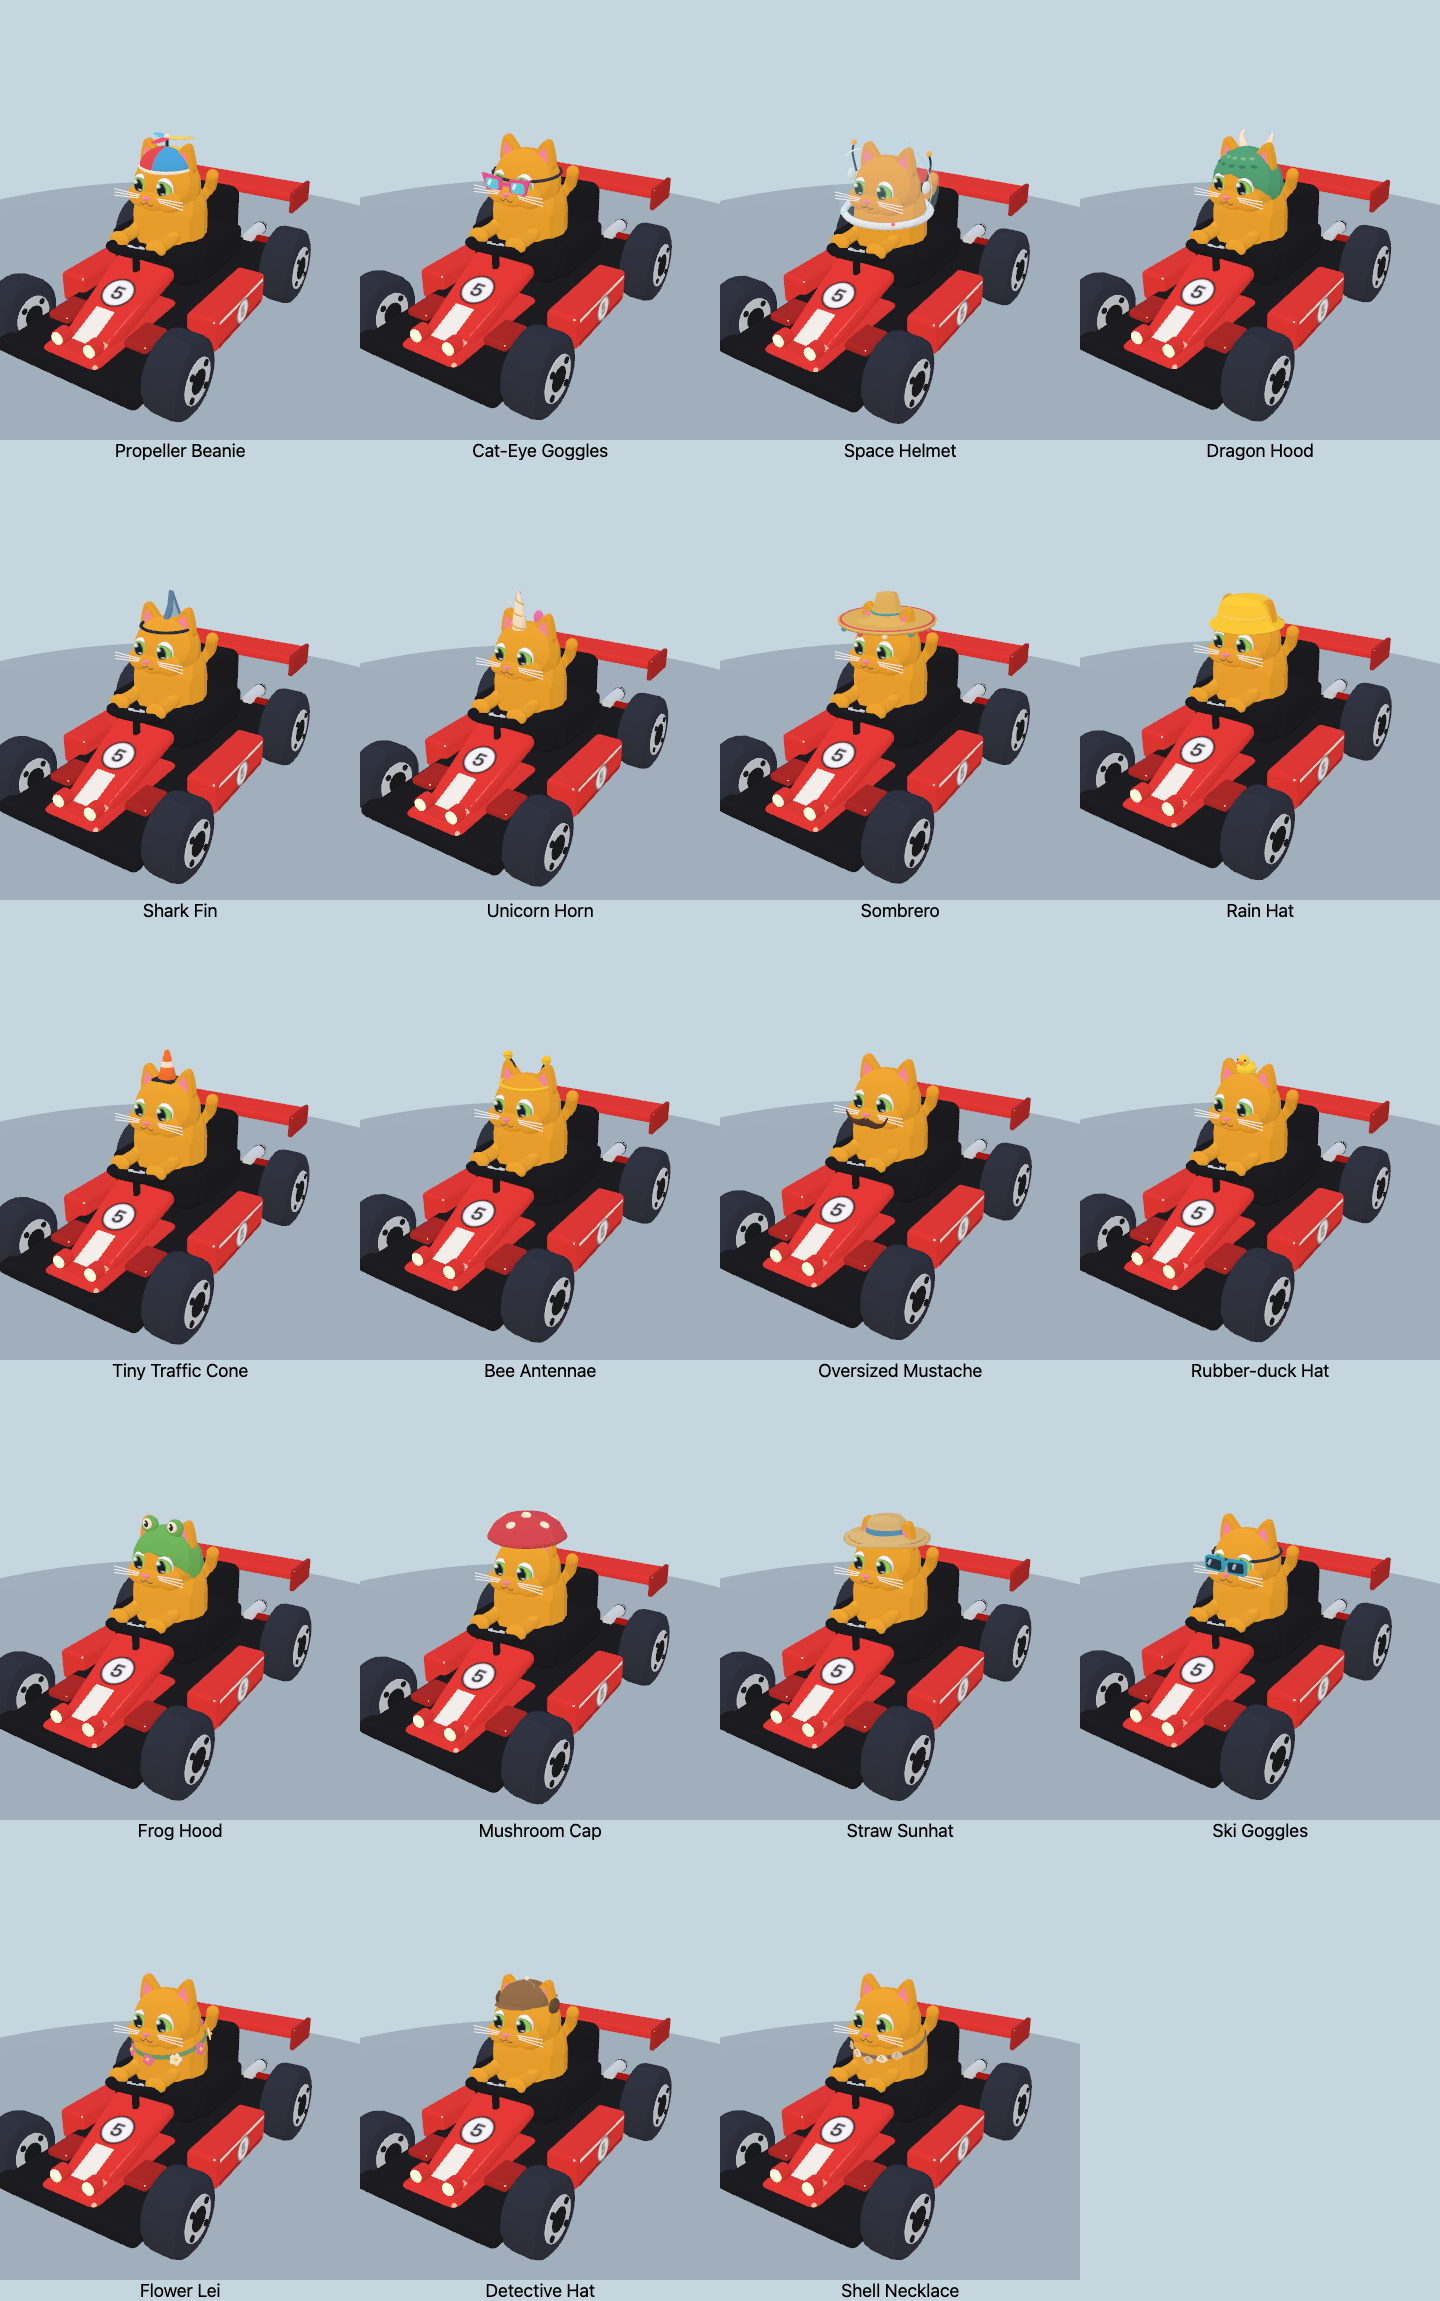
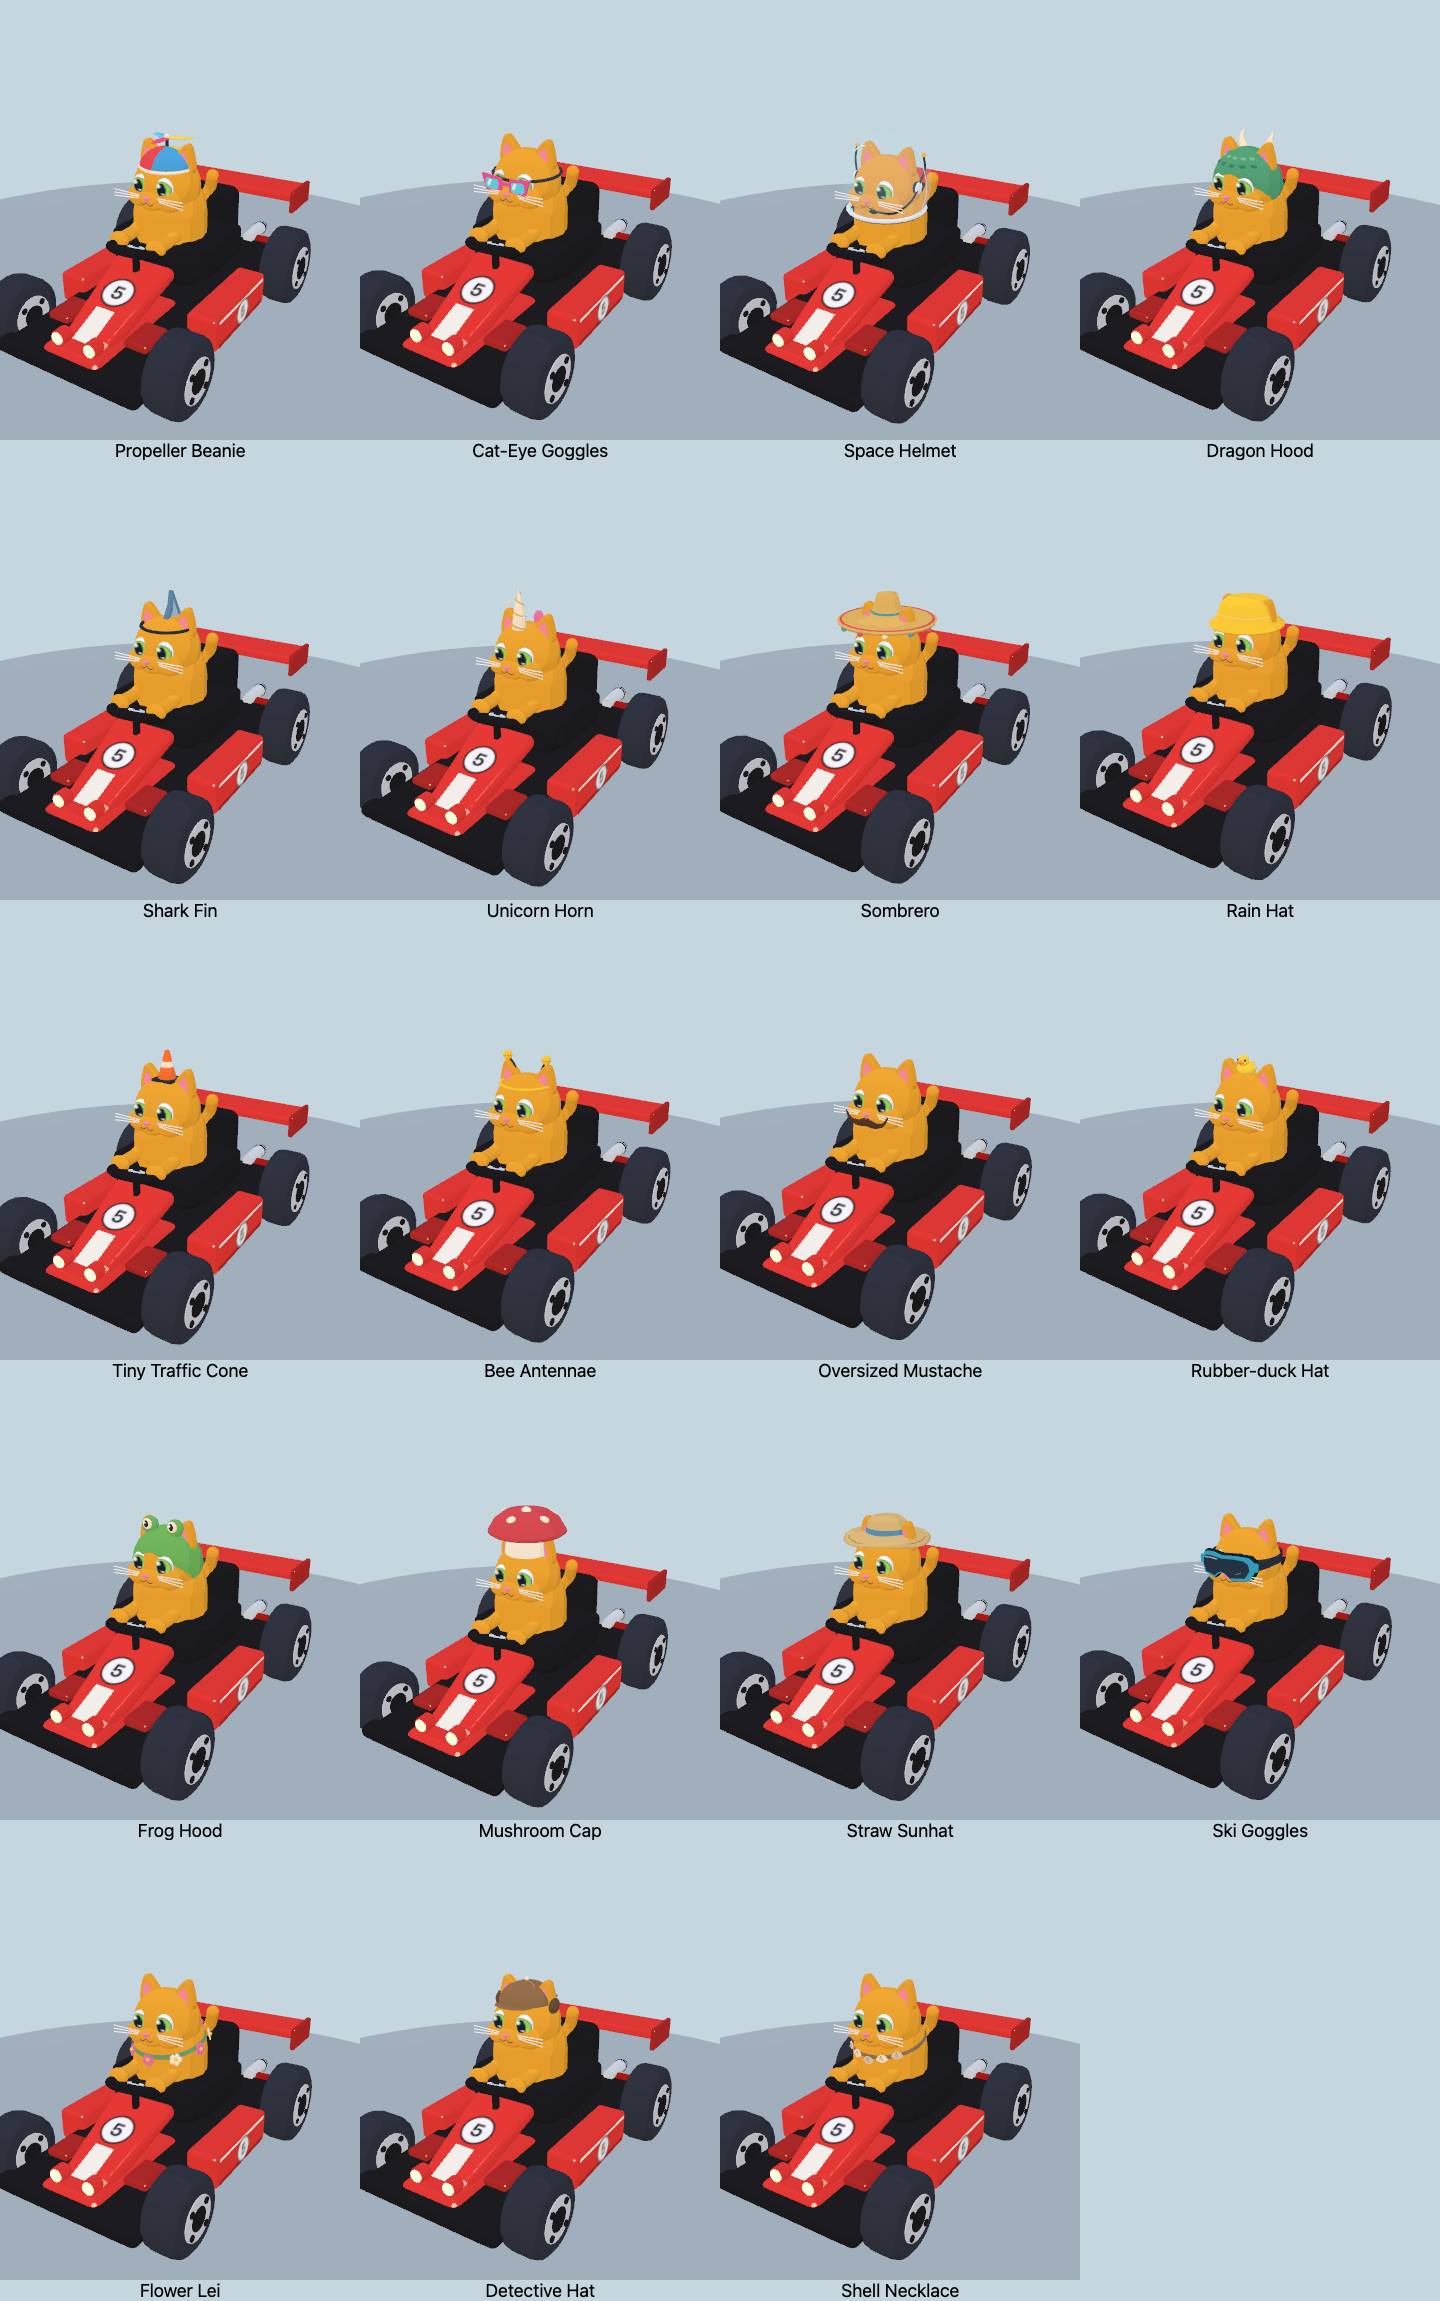
Refine accessory fit, mushroom stem, headset and ski goggles

diff --git a/src/cat-accessories.js b/src/cat-accessories.js
@@ -102,34 +102,60 @@ export function createExtraAccessory(id, color, helpers) {
       }
       ball(.075,ivory,0,.025,0);break;
     }
-    case 'catEye': case 'ski': {
+    case 'catEye': {
       band();
       for(const sx of [-1,1]){
-        id==='catEye'?shape([[-.23,-.13],[.17,-.16],[.29,.2],[-.23,.15]].map(([x,y])=>[x*sx,y]),.065,color,sx*.34,.12,.87):add(plaque(.51,.34,.07,.09),color,sx*.29,.12,.87);
-        const lens=add(plaque(id==='catEye'?.33:.4,.23,.018,.06),id==='catEye'?0x63d8ec:0x263749,sx*(id==='catEye'?.34:.29),.12,.915);
+        shape([[-.23,-.13],[.17,-.16],[.29,.2],[-.23,.15]].map(([x,y])=>[x*sx,y]),.065,color,sx*.34,.12,.87);
+        const lens=add(plaque(.33,.23,.018,.06),0x63d8ec,sx*.34,.12,.915);
         lens.rotation.z=sx*.06;
-        // Baked reflection streaks read as gloss without environment captures.
-        const glint=add(plaque(.07,.15,.009,.02),id==='catEye'?0xe6ffff:0xa1bdce,sx*.33-.065,.15,.933);glint.rotation.z=-.45;
+        const glint=add(plaque(.07,.15,.009,.02),0xe6ffff,sx*.33-.065,.15,.933);glint.rotation.z=-.45;
       }
       add(plaque(.22,.07,.05,.025),color,0,.15,.89);break;
     }
+    case 'ski': {
+      // One wraparound shield with a nose cutout, deep foam seal and broad
+      // elastic strap. Curvature and highlights are baked, not transparent.
+      cap([[.79,.06],[.835,.06],[.835,.24],[.79,.24],[.79,.06]],dark).scale.z=.94;
+      for(const sx of [-1,1]){
+        const strap=add(new THREE.BoxGeometry(.11,.17,.46),dark,sx*.72,.15,.53);strap.rotation.y=-sx*.23;
+        add(plaque(.11,.19,.045,.025),color,sx*.7,.15,.755);
+      }
+      const outline=[[-.69,.07],[-.66,.26],[-.56,.36],[-.32,.4],[0,.38],[.32,.4],[.56,.36],[.66,.26],[.69,.07],[.59,-.14],[.23,-.16],[.12,-.05],[0,.005],[-.12,-.05],[-.23,-.16],[-.59,-.14]];
+      const shield=(sx,sy,depth,c,z)=>{
+        const m=shape(outline.map(([x,y])=>[x*sx,(y-.12)*sy+.12]),depth,c,0,0,z);
+        const p=m.geometry.attributes.position;
+        for(let i=0;i<p.count;i++)p.setZ(i,p.getZ(i)-.5*p.getX(i)**2);
+        m.geometry.computeVertexNormals();return m;
+      };
+      shield(1.035,1.1,.12,0x17232d,.915);
+      shield(1,1,.095,color,.978);
+      shield(.87,.77,.025,0x263749,1.04);
+      line([[-.49,.26,.946],[-.29,.30,1.024],[-.08,.30,1.062]],.014,0xa1bdce,8);
+      line([[.35,.01,1.005],[.46,.055,.96]],.012,0x617c93,4);
+      break;
+    }
     case 'space': {
       covered=true;
-      ring(1.04,.09,color,0,-.56,.02);ring(1.05,.032,dark,0,-.62,.02);
+      const rim=ring(.918,.06,color,0,-.497,.04);rim.scale.z=1/1.08;
+      const seal=ring(.918,.023,dark,0,-.545,.04);seal.scale.z=1/1.08;
       for(const sx of [-1,1]){
-        ball(.15,color,sx*1.04,.17,0,[.5,1,1]);
-        line([[sx*.97,.22,-.1],[sx*1.08,.67,-.12],[sx*1.03,.93,-.12]],.027,dark);
-        ball(.065,0xffbf41,sx*1.03,.93,-.12);
+        ball(.15,dark,sx*.81,.13,.035,[.45,1,1]);
+        ball(.145,color,sx*.865,.13,.035,[.4,1,1]);
+        line([[sx*.87,.22,.015],[sx*.96,.56,-.07],[sx*.91,.88,-.09]],.025,dark);
+        ball(.055,0xffbf41,sx*.91,.88,-.09);
       }
-      // A single front-sided, unlit dome: no refraction, transmission, or second surface pass.
-      const g=new THREE.SphereGeometry(1.25,24,14,0,TAU,0,2.12);g.scale(1,1.02,.93);g.translate(0,.08,.02);g.userData.shared=true;
+      // Exactly one boom, attached to the right earcup, ends by the mouth.
+      line([[.88,.1,.08],[.88,-.1,.48],[.67,-.28,.78],[.24,-.30,.88]],.025,dark,12);
+      ball(.08,0x17232d,.19,-.30,.89,[1.35,.65,.65]);
+      // A closer-fitting ellipsoid still clears the anchored ears and muzzle.
+      // One front surface, with no transmission/refraction or extra light.
+      const g=new THREE.SphereGeometry(1,24,14,0,TAU,0,2.12);g.scale(1.08,1.2,1);g.translate(0,.13,.04);g.userData.shared=true;
       const domeKey='extra|space|dome';if(!cache.has(domeKey))cacheGeometry(domeKey,g);else g.dispose();
       dome=new THREE.Mesh(cache.get(domeKey),glass);dome.renderOrder=2;group.add(dome);
-      // Tiny opaque reflection marks keep the dome legible at racing distance.
-      line([[-.6,.86,.78],[-.42,1,.78],[-.2,1.07,.76]],.02,0xe5fbff);
-      line([[1.04,-.5,.1],[1.24,.12,.1],[1.04,.8,.1],[.62,1.19,.1]],.012,0xc4e3eb);
+      line([[-.53,.90,.60],[-.37,1.04,.57],[-.17,1.10,.59]],.016,0xe5fbff);
+      line([[.922,-.49,.04],[1.08,.13,.04],[.891,.81,.04],[.53,1.175,.04]],.01,0xc4e3eb);
       pivot('blink',0,0,0);
-      for(const sx of [-1,1])ball(.047,sx<0?0x7effa9:0xff6d6d,sx*.68,-.51,.84);
+      for(const sx of [-1,1])ball(.04,sx<0?0x7effa9:0xff6d6d,sx*.55,-.46,.72);
       break;
     }
     case 'dragon': {
@@ -143,9 +169,11 @@ export function createExtraAccessory(id, color, helpers) {
         const m=add(new THREE.SphereGeometry(.075,6,4),y>.6?0x82c493:0x3b8669,Math.sin(a)*r+n.x*.02,y+n.y*.02,Math.cos(a)*r+n.z*.02,[1,.6,.22]);
         m.quaternion.setFromUnitVectors(new THREE.Vector3(0,0,1),n);
       }
-      pivot('tail',0,-.15,-.84);
-      add(tube([new THREE.Vector3(),new THREE.Vector3(0,-.35,-.1),new THREE.Vector3(.06,-.7,-.17),new THREE.Vector3(0,-.95,-.3)],.15,.018,10,7),color);
-      for(let i=0;i<4;i++)ball(.075,0xefc067,0,-i*.2,-.08-i*.04,[.4,1,1.3]);break;
+      // Bury the broad root in the hood, above the hem. Rotation is about
+      // this attached root so flutter cannot open a gap under the hood.
+      pivot('tail',0,.12,-.78);
+      add(tube([new THREE.Vector3(0,.10,.20),new THREE.Vector3(0,-.3,-.13),new THREE.Vector3(.06,-.76,-.23),new THREE.Vector3(0,-1.22,-.35)],.19,.018,12,7),color);
+      for(let i=0;i<4;i++)ball(.075,0xefc067,0,-.2-i*.24,-.20-i*.03,[.4,1,1.3]);break;
     }
     case 'shark': {
       band(dark,.55,.62);
@@ -209,12 +237,16 @@ export function createExtraAccessory(id, color, helpers) {
     }
     case 'mushroom': {
       covered=true;
-      cap([[0,.7],[.42,.7],[.83,.72],[.93,.79],[.91,.85],[.77,1.08],[.5,1.27],[.22,1.32],[0,1.33]],color);
-      cap([[.36,.7],[.75,.705],[.9,.765]],ivory);
+      // White chef-style stem supports the raised cap; ear slots are cut
+      // through the stem and cap together during generation.
+      cap([[0,.49],[.5,.49],[.54,.57],[.51,.83],[.49,1.06],[0,1.06]],0xfff4de);
+      const lift=.29;
+      cap([[0,.7],[.42,.7],[.83,.72],[.93,.79],[.91,.85],[.77,1.08],[.5,1.27],[.22,1.32],[0,1.33]],color).position.y=lift;
+      cap([[.36,.7],[.75,.705],[.9,.765]],ivory).position.y=lift;
       for(const [a,r] of [[0,.65],[1.2,.65],[2.4,.65],[3.7,.8],[5,.55],[.5,.25]]){
         const y=r>.5?1.27-(r-.5)*(.19/.27):1.32-(r-.22)*(.05/.28);
         const n=new THREE.Vector3(Math.sin(a)*.57,.82,Math.cos(a)*.57).normalize();
-        const m=ball(.115,ivory,Math.sin(a)*r+n.x*.02,y+n.y*.02,Math.cos(a)*r+n.z*.02,[1,.9,.2]);
+        const m=ball(.115,ivory,Math.sin(a)*r+n.x*.02,y+lift+n.y*.02,Math.cos(a)*r+n.z*.02,[1,.9,.2]);
         m.quaternion.setFromUnitVectors(new THREE.Vector3(0,0,1),n);
       }break;
     }

diff --git a/docs/art-refresh/new-accessories/README.md b/docs/art-refresh/new-accessories/README.md
@@ -10,7 +10,7 @@ All 19 requested accessories are available in the Custom Cat studio and asset vi
 | --- | --- |
 | Propeller Beanie | Four colorful cloth panels; three rotor blades spin faster with actual kart speed. |
 | Cat-Eye Goggles | Swept retro frames, turquoise lenses and baked reflection streaks. |
-| Space Helmet | A transparent bubble, opaque glints, antennae, collar seal and blinking status lights. |
+| Space Helmet | A fitted transparent bubble, opaque glints, antennae, a headset with one boom mic, collar seal and blinking status lights. |
 | Dragon Hood | Raised scales, curved ivory horns and a tail that flutters and responds to turns. |
 | Shark Fin | Two-tone swept fin on a brow strap. |
 | Unicorn Horn | Raised golden spiral, five-color mane and two pulsing glints. |
@@ -21,12 +21,29 @@ All 19 requested accessories are available in the Custom Cat studio and asset vi
 | Oversized Mustache | Curled tips with speed-sensitive bounce and turn tilt. |
 | Rubber-duck Hat | A perched duck with wings, beak, eyes and tail. |
 | Frog Hood | Raised frog eyes with separate pupils/highlights and openings for the cat's ears. |
-| Mushroom Cap | Broad red cap, ivory underside and large surface-fitted spots. |
+| Mushroom Cap | Broad red cap on a white stem, ivory underside and large surface-fitted spots. |
 | Straw Sunhat | Slightly floppy brim, woven rings and blue ribbon. |
-| Ski Goggles | Chunky colored frames, dark lenses and muted reflections. |
+| Ski Goggles | One curved dark shield, colored frame, nose cutout, foam seal, wide strap and muted reflections. |
 | Flower Lei | Nine large five-petal flowers with yellow centers on a fitted neck band. |
 | Detective Hat | Deerstalker crown, front/rear peaks, side flaps and broad stitching. |
 | Shell Necklace | Five large scalloped shells with readable ribs on a fitted cord. |
+
+## Fit refinements
+
+The dragon tail now starts inside the rear of the hood above its hem, so the broad root stays attached as it flutters. The mushroom cap sits on a short white stem with fitted ear openings. The space dome is about 14% narrower and shallower, retaining ear/muzzle clearance, with closer earcups and **one** boom microphone beside the mouth. Ski goggles now use a single curved shield with a nose cutout, a deep foam seal and a broad elastic strap.
+
+[Before/after comparison of the four revisions](fit-comparison.png)
+
+| Complete spotted cat | Before triangles | After triangles | Batches before → after |
+| --- | ---: | ---: | ---: |
+| Dragon Hood | 8,916 | 8,944 | 20 → 20 |
+| Mushroom Cap | 8,565 | 9,137 | 19 → 19 |
+| Space Helmet | 9,396 | 9,816 | 21 → 21 |
+| Ski Goggles | 7,848 | 7,824 | 19 → 19 |
+
+These revisions add no rendering batches, lights or animation work. The helmet retains the same single transparent surface. All 82 backend/selection renders and 738 pose/recolor combinations pass again. [Previous geometry counts](render-before-fit.json).
+
+The revised helmet was tested on all six racers under the same 40-second native WebGPU High meadow setup described below: **60.00 FPS**, **16.8 ms p99/worst frame time**, **5.2 ms median CPU callback**, **6.9 ms p99 CPU callback**, and **293 shader programs**. The earlier helmet sample was 60.00 FPS / 16.8 ms / 4.8 ms median CPU / 6.7 ms p99 CPU / 293 programs. Whole-race variation prevents attributing the 0.4 ms CPU difference solely to the model. Mobile performance remains unmeasured. [Revised sample](race-fitted-space.json) · [Raw frames](race-fitted-space-frames.json.gz).
 
 ## Runtime cost
 
@@ -36,7 +53,7 @@ Most pieces use one extra opaque batch, animated pieces usually two. The space h
 
 [Per-model geometry and batch counts](render-metrics.json)
 
-## Race measurement
+## Initial race measurement (before the fit refinements)
 
 Sequential native Chrome/WebGPU samples on an Apple M3 Pro, High quality, 1100×700, six racers, procedural meadow seed `RUNTIME`. Each sample records 40 seconds after eight seconds of race warm-up. Baseline models are from `f9c1143`; forced `space` is unknown there, so baseline racers wear **no accessory**. The two new cases force all six racers to wear space helmets (transparency/batch stress) or sombreros (largest geometry). No other rendering probes ran during these samples.
 
